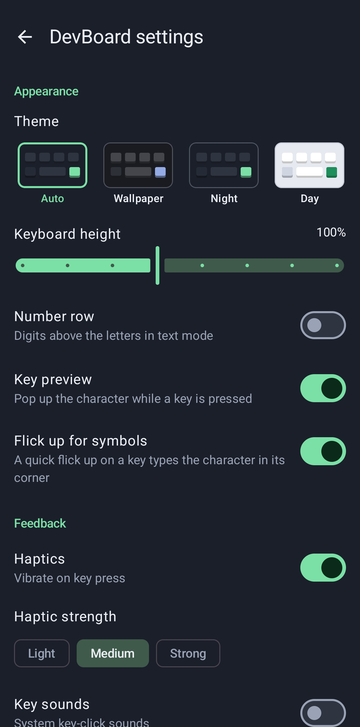
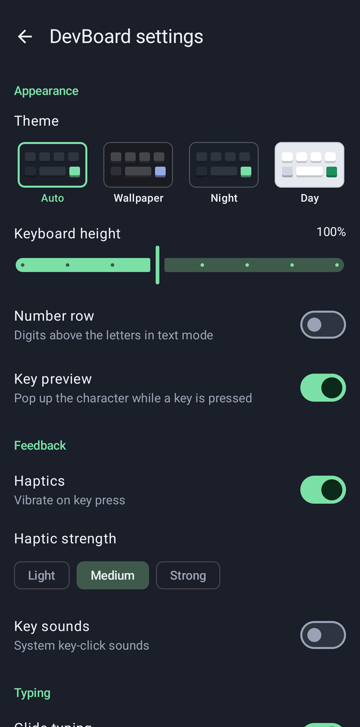
Take out flick up for symbols
The gesture and its setting are gone; long-press still gives a key's corner
character. The settings screenshot is retaken without the row.

Claude-Session: https://claude.ai/code/session_01PEB9TZ613mdLMxgXnrAFvE

diff --git a/app/src/main/kotlin/dev/shebang/devboard/view/KeyboardView.kt b/app/src/main/kotlin/dev/shebang/devboard/view/KeyboardView.kt
@@ -85,8 +85,6 @@ class KeyboardView(context: Context) : View(context) {
     var glideTrailEnabled = true
     /** Dipping into the space bar during a glide starts the next word. */
     var phraseGlideEnabled = false
-    /** A quick flick up on a key types its corner character (its first long-press alternate). */
-    var flickEnabled = true
 
     private val density = resources.displayMetrics.density
     /** The preview/alternates overlay, owned by the IME root so it can draw above the top row. */
@@ -643,18 +641,8 @@ class KeyboardView(context: Context) : View(context) {
             handler.removeCallbacks(repeatRunnable)
         }
         val l = listener
-        val flick = wasActive && fromUp && !pointerCancelled[id] && isFlick(id, key, x, y, t)
         when {
             pointerCancelled[id] -> Unit
-            flick -> {
-                // A flick up types the corner character; a glide it started is dropped.
-                if (gliding) {
-                    resetSpaceState()
-                    l?.onGlideCancel()
-                }
-                val alts = if (shiftState != ShiftState.OFF && key.letter != 0.toChar()) key.shiftedAlternates else key.alternates
-                l?.onAlternate(key, alts[0])
-            }
             wasActive && popup.isAlternates -> popup.selectedAlternate()?.let { l?.onAlternate(key, it) }
             wasActive && gliding -> {
                 var trailingSpace = false
@@ -692,20 +680,6 @@ class KeyboardView(context: Context) : View(context) {
             longPressPending = false
         }
         invalidate()
-    }
-
-    /**
-     * A flick up: quick (at most [FLICK_MS]), between half a row and 1.3 rows up, and nearly straight (less
-     * than 0.6 of a key sideways), on a key with a corner character. Glides between letters a row apart
-     * almost always move sideways too, and take longer.
-     */
-    private fun isFlick(id: Int, key: Key, x: Float, y: Float, t: Long): Boolean {
-        val g = geometry ?: return false
-        if (!flickEnabled || key.alternates.isEmpty() || popup.isAlternates || cursorDrag || deleteDrag || repeatFired) return false
-        if (key.action != KeyAction.NONE || key.def.text == null) return false
-        if (t - pointerDownT[id] > FLICK_MS) return false
-        val up = pointerDownY[id] - y
-        return up >= g.rowHeightPx * 0.5f && up <= g.rowHeightPx * 1.3f && abs(x - pointerDownX[id]) < g.letterKeyWidth * 0.6f
     }
 
     private fun onShiftTap() {
@@ -749,7 +723,6 @@ class KeyboardView(context: Context) : View(context) {
         private const val TRAIL_SEGMENTS = 60
         private const val MIN_SAMPLE_PX = 2f
         private const val LONG_PRESS_MS = 320L
-        private const val FLICK_MS = 250L
         private const val DOUBLE_TAP_MS = 350L
         private const val REPEAT_DELAY_MS = 380L
         private const val REPEAT_START_MS = 80L

diff --git a/app/src/main/kotlin/dev/shebang/devboard/settings/SettingsRepository.kt b/app/src/main/kotlin/dev/shebang/devboard/settings/SettingsRepository.kt
@@ -41,7 +41,6 @@ class SettingsRepository(context: Context) {
             glide = p[Keys.GLIDE] ?: d.glide,
             glideTrail = p[Keys.GLIDE_TRAIL] ?: d.glideTrail,
             phraseGlide = p[Keys.PHRASE_GLIDE] ?: d.phraseGlide,
-            flickSymbols = p[Keys.FLICK_SYMBOLS] ?: d.flickSymbols,
             learnWords = p[Keys.LEARN_WORDS] ?: d.learnWords,
             adaptGlide = p[Keys.ADAPT_GLIDE] ?: d.adaptGlide,
             adaptTaps = p[Keys.ADAPT_TAPS] ?: d.adaptTaps,
@@ -69,7 +68,6 @@ class SettingsRepository(context: Context) {
         p[Keys.GLIDE] = s.glide
         p[Keys.GLIDE_TRAIL] = s.glideTrail
         p[Keys.PHRASE_GLIDE] = s.phraseGlide
-        p[Keys.FLICK_SYMBOLS] = s.flickSymbols
         p[Keys.LEARN_WORDS] = s.learnWords
         p[Keys.ADAPT_GLIDE] = s.adaptGlide
         p[Keys.ADAPT_TAPS] = s.adaptTaps
@@ -96,7 +94,6 @@ class SettingsRepository(context: Context) {
         val GLIDE = booleanPreferencesKey("glide")
         val GLIDE_TRAIL = booleanPreferencesKey("glide_trail")
         val PHRASE_GLIDE = booleanPreferencesKey("phrase_glide")
-        val FLICK_SYMBOLS = booleanPreferencesKey("flick_symbols")
         val LEARN_WORDS = booleanPreferencesKey("learn_words")
         val ADAPT_GLIDE = booleanPreferencesKey("adapt_glide")
         val ADAPT_TAPS = booleanPreferencesKey("adapt_taps")

diff --git a/app/src/main/kotlin/dev/shebang/devboard/ime/DevBoardService.kt b/app/src/main/kotlin/dev/shebang/devboard/ime/DevBoardService.kt
@@ -219,7 +219,6 @@ class DevBoardService : InputMethodService(), KeyboardView.Listener, TerminalBar
         keyboard?.keyPreviewEnabled = s.keyPreview
         keyboard?.glideTrailEnabled = s.glideTrail
         keyboard?.phraseGlideEnabled = s.phraseGlide
-        keyboard?.flickEnabled = s.flickSymbols
         if (heightChanged) rebuildGeometry()
         if (languageLoader.learnWords != s.learnWords) {
             languageLoader.learnWords = s.learnWords
@@ -360,7 +359,6 @@ class DevBoardService : InputMethodService(), KeyboardView.Listener, TerminalBar
         k.keyPreviewEnabled = settings.keyPreview
         k.glideTrailEnabled = settings.glideTrail
         k.phraseGlideEnabled = settings.phraseGlide
-        k.flickEnabled = settings.flickSymbols
         rebuildGeometry()
         return container
     }

diff --git a/app/src/main/kotlin/dev/shebang/devboard/settings/SettingsActivity.kt b/app/src/main/kotlin/dev/shebang/devboard/settings/SettingsActivity.kt
@@ -174,7 +174,6 @@ fun SettingsScreen(
             }
             item { SwitchRow("Number row", "Digits above the letters in text mode", settings.numberRow) { v -> update { it.copy(numberRow = v) } } }
             item { SwitchRow("Key preview", "Pop up the character while a key is pressed", settings.keyPreview) { v -> update { it.copy(keyPreview = v) } } }
-            item { SwitchRow("Flick up for symbols", "A quick flick up on a key types the character in its corner", settings.flickSymbols) { v -> update { it.copy(flickSymbols = v) } } }
 
             item { SectionHeader("Feedback") }
             item { SwitchRow("Haptics", "Vibrate on key press", settings.haptics) { v -> update { it.copy(haptics = v) } } }

diff --git a/app/src/main/kotlin/dev/shebang/devboard/settings/Settings.kt b/app/src/main/kotlin/dev/shebang/devboard/settings/Settings.kt
@@ -26,8 +26,6 @@ data class Settings(
     val glideTrail: Boolean = true,
     /** Dip into the space bar mid-glide to start the next word in the same stroke. */
     val phraseGlide: Boolean = false,
-    /** A quick flick up on a key types its corner character. */
-    val flickSymbols: Boolean = true,
     /** Let a new glide rewrite the recent glided words when it makes another reading more likely. */
     /** Glided words wait in a row above the keys for a moment, where they can be tapped and corrected. */
     /** Learn words typed or glided in ordinary text fields, on this device only. */

diff --git a/CHANGELOG.md b/CHANGELOG.md
@@ -21,7 +21,6 @@
 - Backspacing back to a word reopens it: the strip offers what else it could be, and a pick or a glide replaces it (c3b3a8a)
 - Code mode pairs brackets and quotes, steps over a closing one, and backspace between an empty pair takes both (Settings: Pair brackets and quotes) (04cb7b0)
 - Swipe left from backspace to delete whole words, drag the space bar with shift on to select, and Undo and Redo keys on the default terminal bar (04cb7b0)
-- Flick up on a key to type the character in its corner (Settings: Flick up for symbols) (04cb7b0)
 - The keyboard remembers text or code mode per app, and each app can have its own terminal bar (04cb7b0)
 - Code-aware words: identifiers already in the text are suggested as you type and offered after a glide, and words glided in a row can be joined as camelCase or snake_case (c5888d9)
 - Next-word suggestions: after a space the strip offers the three words most likely to come next; tap one to write it and get the next three. Settings > Next-word suggestions turns them off (8e1d2ae)
